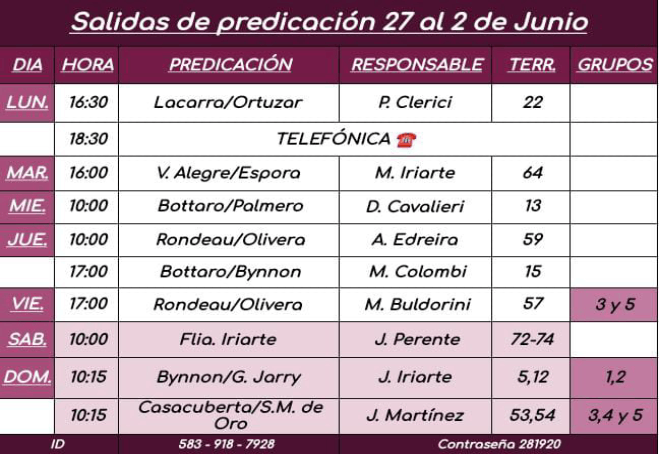
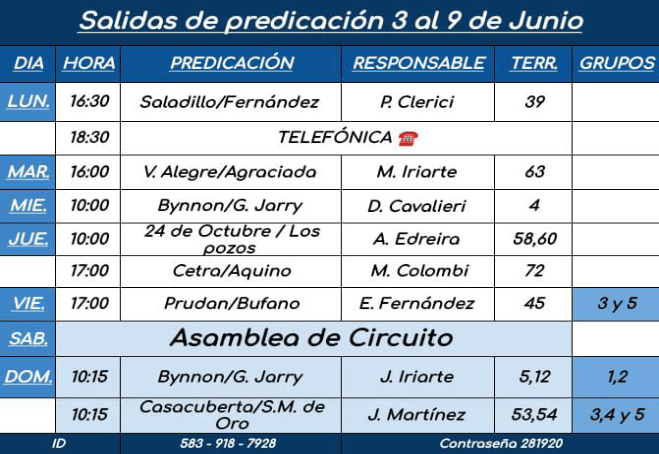
actualizo salida, programa y limpieza

diff --git a/pages/programaSemanal/programaSemanal.html b/pages/programaSemanal/programaSemanal.html
@@ -39,8 +39,8 @@
     <main>
         <section class="reuSemanal">
             <h2> Programa para la reunión entre semana</h2>
-            <img src="./asignacionesMayo1.png" alt="">
-            <img src="./asignacionesMayo2.png" alt="">
+            <img src="./asignacionesJunio1.png" alt="">
+            <img src="./asignacionesJunio2.png" alt="">
         </section>
     </main>
     <footer>
